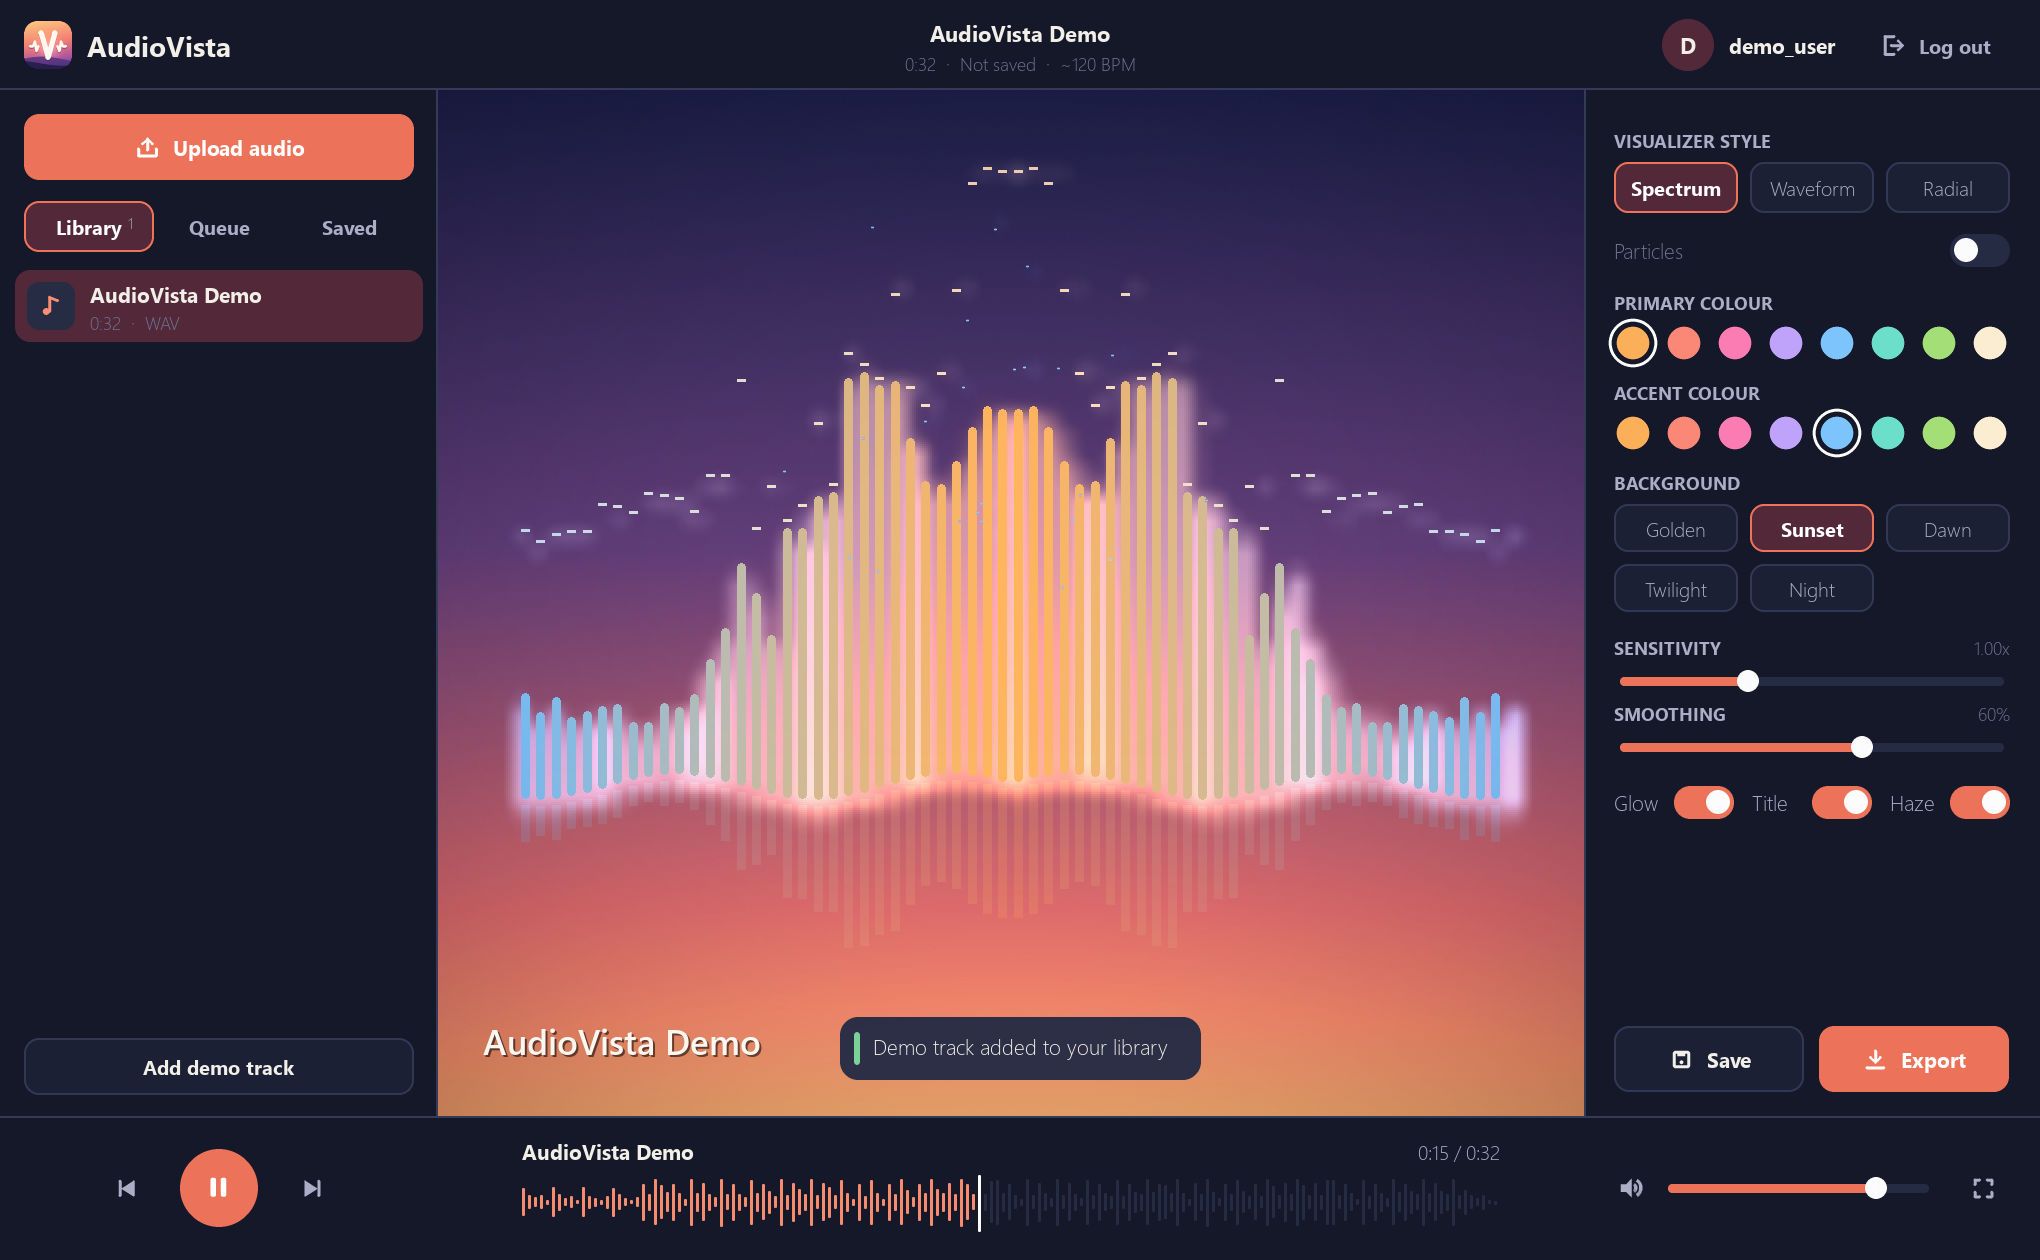
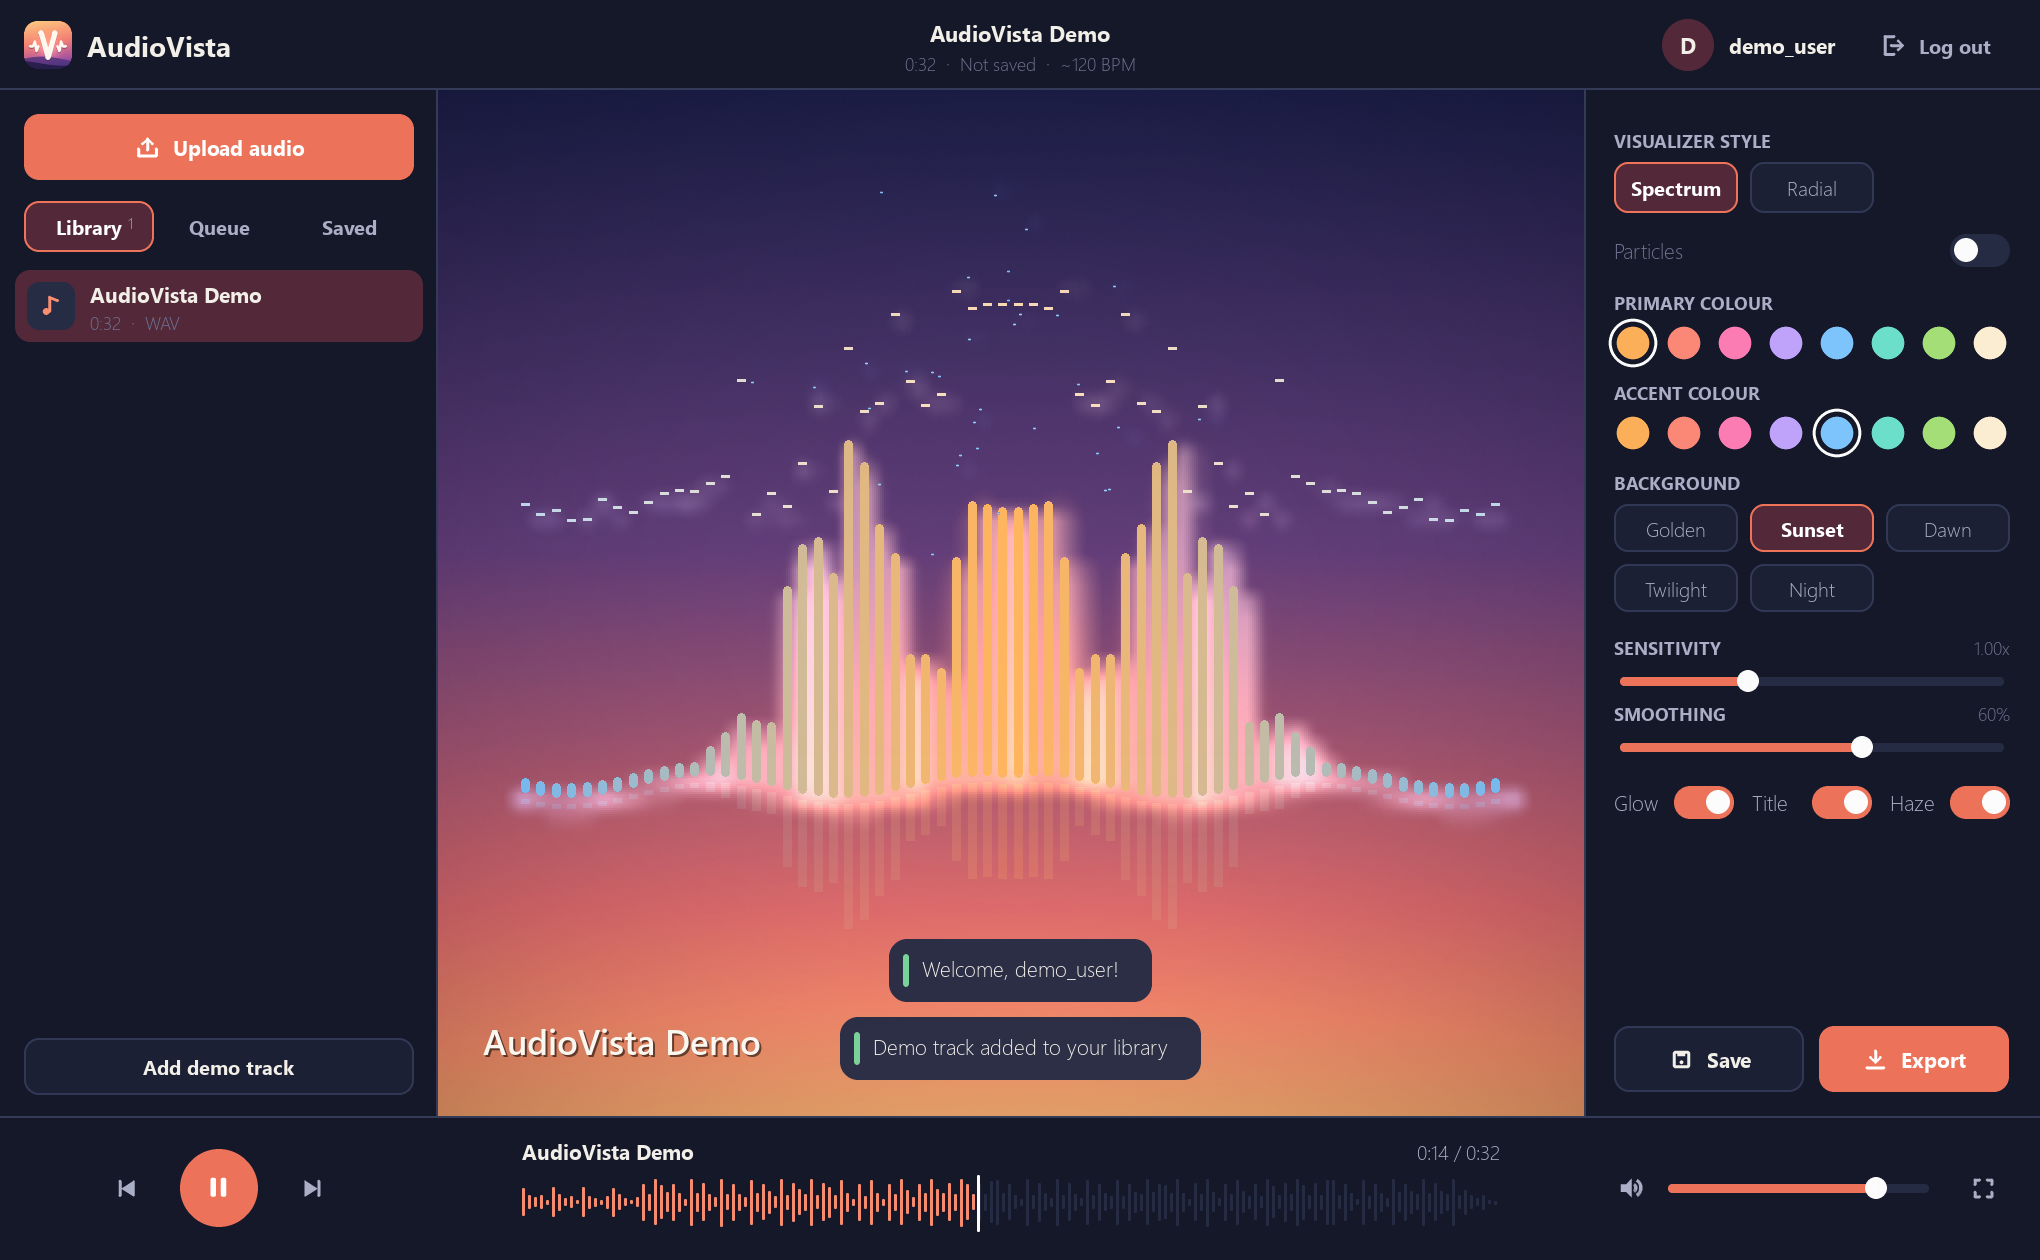
Remove the Waveform style and Radial's centre blob and orbiting dots
Saved visualizations that used Waveform now open as Spectrum.

diff --git a/audiovista/visuals/renderers.py b/audiovista/visuals/renderers.py
@@ -3,12 +3,9 @@
 * bars      - Spectrum: mirrored bars on springs (they overshoot and bounce),
               riding a floor that ripples with the music; peak caps fall with
               gravity and sparks fly off the bars on the beat.
-* waveform  - Waveform: the live sound wave as a smooth glowing ribbon that
-              changes every frame, trailed by fading echoes of the last few
-              frames and a mirrored reflection.
-* circular  - Radial: a breathing ring of spring-loaded spectrum bars around a
-              wobbling spectrum "blob", orbiting dots and shockwaves on the
-              beat; optionally particles stream out of the centre.
+* circular  - Radial: a breathing ring of spring-loaded spectrum bars with
+              shockwaves on the beat; optionally particles stream out of
+              the centre.
 
 ``draw_backdrop`` paints translucent parts straight onto the frame (they blend
 correctly there); ``draw`` paints the bright parts onto a layer that the
@@ -19,7 +16,6 @@ exported videos match the live preview.
 from __future__ import annotations
 
 import math
-from collections import deque
 
 import numpy as np
 import pygame
@@ -264,77 +260,6 @@ class SpectrumRenderer(BaseRenderer):
             aa_circle(layer, lerp_color(c2, WHITE, life), (x, y), max(1.5, u * 0.004 * life))
 
 
-# --------------------------------------------------------------- Waveform
-
-class WaveformRenderer(BaseRenderer):
-    style = "waveform"
-    POINTS = 220
-    ECHOES = 6
-
-    def __init__(self):
-        super().__init__()
-        self.reset()
-
-    def reset(self):
-        super().reset()
-        self.history: deque = deque(maxlen=self.ECHOES)
-        self.gain = 3.0
-        self.t = 0.0
-        self._frame = None
-        self.curve = np.zeros(self.POINTS)
-
-    def _update(self, frame, dt):
-        if frame is self._frame:
-            return
-        self._frame = frame
-        wave = np.asarray(frame.waveform, dtype=np.float64)
-        # smooth out the hiss so the line flows, then shrink to POINTS samples
-        wave = np.convolve(wave, np.hanning(17) / np.hanning(17).sum(), mode="same")
-        curve = resample(wave, self.POINTS)
-        # automatic gain: quiet passages still fill the screen, loud ones don't clip
-        peak = max(0.02, float(np.abs(curve).max()))
-        if dt > 0.0015:
-            self.gain += (min(8.0, 0.9 / peak) - self.gain) * (1 - 0.2 ** dt)
-            self.t += dt
-            self.history.appendleft(self.curve.copy())
-        # taper to the centre line at both ends
-        self.curve = np.clip(curve * self.gain, -1.2, 1.2) * np.sin(np.linspace(0, math.pi, self.POINTS)) ** 0.6
-
-    def _xs(self, w):
-        return np.linspace(w * 0.04, w * 0.96, self.POINTS)
-
-    def draw_backdrop(self, target, frame, s, dt):
-        w, h = target.get_size()
-        self._update(frame, dt)
-        c1, c2 = s.primary_rgb, s.secondary_rgb
-        cy, amp = h * 0.48, h * 0.26 * (1 + 0.12 * frame.beat)
-        xs = self._xs(w)
-        # echoes of the last few frames drift outwards and fade
-        for k, old in enumerate(self.history):
-            f = (k + 1) / (self.ECHOES + 1)
-            ys = cy - old * amp * (1 + 0.25 * f)
-            ribbon(target, (*lerp_color(c1, c2, f), int(140 * (1 - f))), xs, ys, max(2.0, h * 0.006 * (1 - f)))
-        # mirrored reflection
-        ys = cy + self.curve * amp * 0.55
-        gfx.filled_polygon(target, list(zip(xs.tolist(), ys.tolist())) + [(xs[-1], cy), (xs[0], cy)],
-                           (*c2, 40))
-
-    def draw(self, layer, frame, s, dt):
-        w, h = layer.get_size()
-        u = min(w, h)
-        self._update(frame, dt)
-        c1, c2 = s.primary_rgb, s.secondary_rgb
-        cy, amp = h * 0.48, h * 0.26 * (1 + 0.12 * frame.beat)
-        xs = self._xs(w)
-        ys = cy - self.curve * amp
-        width = max(2.5, u * (0.007 + 0.006 * frame.volume))
-        ribbon(layer, lerp_color(c1, c2, 0.5 + 0.5 * math.sin(self.t * 0.7)), xs, ys, width * 2.2)
-        ribbon(layer, lerp_color(c1, WHITE, 0.35 + 0.3 * frame.beat), xs, ys, width)
-        # a bright dot rides the wave from left to right with the beat
-        j = int((self.t * 0.35 % 1.0) * (self.POINTS - 1))
-        aa_circle(layer, WHITE, (xs[j], ys[j]), width * (1.2 + frame.beat))
-
-
 # ------------------------------------------------------------------ Radial
 
 class Emitter:
@@ -397,7 +322,6 @@ class RadialRenderer(BaseRenderer):
         super().reset()
         self.springs = SpringBank(280.0, 10.0)
         self.breath = SpringBank(160.0, 8.0)
-        self.orbit = [0.0, 2.1, 4.2]
         self.t = 0.0
         self.emitter = Emitter()
         self._frame = None
@@ -415,8 +339,6 @@ class RadialRenderer(BaseRenderer):
         self.R = u * 0.15 * (1 + 0.22 * breath)
         if dt > 0.0015:
             self.t += dt * (0.6 + 1.5 * frame.volume)
-            for i, band in enumerate((bass, mid, treble)):
-                self.orbit[i] += dt * (0.6 + 0.5 * i) * (0.4 + 3.0 * band) * (1 if i % 2 == 0 else -1)
         if s.particles:
             self.emitter.update(frame, u, bass, dt)
 
@@ -436,17 +358,6 @@ class RadialRenderer(BaseRenderer):
                     for d in (0, 3):
                         gfx.aacircle(target, int(cx), int(cy), int(self.R * 1.1 + age * u * 0.35 + d),
                                      (*lerp_color(c1, WHITE, 0.4), a))
-        # the wobbling spectrum blob inside the ring
-        pts = self._blob(cx, cy, 0.78, 0.35, 0)
-        gfx.filled_polygon(target, pts, (*lerp_color(c1, c2, 0.5), 70))
-
-    def _blob(self, cx, cy, base, depth, phase):
-        n = self.BARS
-        vals = np.concatenate([self.bars, self.bars[::-1]])
-        a = -math.pi / 2 + np.linspace(0, TAU, 2 * n, endpoint=False) + phase
-        wob = 1 + 0.05 * np.sin(a * 5 + self.t * 2.0)
-        r = self.R * (base + depth * vals) * wob
-        return list(zip((cx + np.cos(a) * r).tolist(), (cy + np.sin(a) * r).tolist()))
 
     def draw(self, layer, frame, s, dt):
         w, h = layer.get_size()
@@ -469,15 +380,10 @@ class RadialRenderer(BaseRenderer):
                     aa_circle(layer, lerp_color(col, WHITE, 0.6),
                               (cx + ca * (r0 + L + width), cy + sa * (r0 + L + width)), width * 0.7)
         gfx.aacircle(layer, int(cx), int(cy), int(R), (*lerp_color(c1, WHITE, 0.3), 255))
-        pygame.draw.aalines(layer, lerp_color(c2, WHITE, 0.3), True, self._blob(cx, cy, 0.78, 0.35, 0))
-        for i, ang in enumerate(self.orbit):
-            rr = R * (0.45 + 0.12 * i)
-            aa_circle(layer, (c1, lerp_color(c1, c2, 0.5), c2)[i],
-                      (cx + math.cos(ang) * rr, cy + math.sin(ang) * rr), u * 0.008)
         aa_circle(layer, lerp_color(c1, WHITE, 0.6), (cx, cy), R * (0.12 + 0.12 * frame.beat))
 
 
-RENDERERS = {cls.style: cls for cls in (SpectrumRenderer, WaveformRenderer, RadialRenderer)}
+RENDERERS = {cls.style: cls for cls in (SpectrumRenderer, RadialRenderer)}
 
 
 def create_renderer(style: str) -> BaseRenderer:

diff --git a/tests/test_models.py b/tests/test_models.py
@@ -26,8 +26,8 @@ class TestVisualSettings:
         assert again == s
 
     def test_from_dict_ignores_unknown_keys_and_fills_defaults(self):
-        s = VisualSettings.from_dict({"wave_type": "waveform", "something_else": 1})
-        assert s.wave_type == "waveform" and s.background == "sunset"
+        s = VisualSettings.from_dict({"wave_type": "circular", "something_else": 1})
+        assert s.wave_type == "circular" and s.background == "sunset"
 
     @pytest.mark.parametrize("bad", [
         {"color": "red"}, {"color": "#12345"}, {"secondary_color": "#GGGGGG"},
@@ -147,10 +147,12 @@ def test_settings_saved_by_earlier_versions_still_load(old_background, sky):
     assert s.atmosphere is False          # the old "retro" switch carries over
 
 
-@pytest.mark.parametrize("old_style, particles", [("meters", False), ("particles", True)])
-def test_removed_styles_open_as_radial(old_style, particles):
+@pytest.mark.parametrize("old_style, style, particles", [("meters", "circular", False),
+                                                          ("particles", "circular", True),
+                                                          ("waveform", "bars", False)])
+def test_removed_styles_still_open(old_style, style, particles):
     s = VisualSettings.from_dict({"wave_type": old_style})
-    assert s.wave_type == "circular" and s.particles is particles
+    assert s.wave_type == style and s.particles is particles
 
 
 def test_radial_particles_option_draws_extra_detail(analyzer):

diff --git a/audiovista/models.py b/audiovista/models.py
@@ -133,11 +133,12 @@ class AudioFile:
 
 # Style keys are stored in saved visualizations, so they stay stable even
 # though the styles have been redesigned (they map to the current designs).
-WAVE_TYPES = ("bars", "waveform", "circular")
-WAVE_TYPE_LABELS = {"bars": "Spectrum", "waveform": "Waveform", "circular": "Radial"}
+WAVE_TYPES = ("bars", "circular")
+WAVE_TYPE_LABELS = {"bars": "Spectrum", "circular": "Radial"}
 # Styles that were removed: saved visualizations that used them open as Radial
 # (the old "particles" style becomes Radial with the particles option on).
-LEGACY_WAVE_TYPES = {"meters": ("circular", False), "particles": ("circular", True)}
+LEGACY_WAVE_TYPES = {"meters": ("circular", False), "particles": ("circular", True),
+                     "waveform": ("bars", False)}
 # Backgrounds are skies at different times of day.
 BACKGROUNDS = ("golden", "sunset", "dawn", "twilight", "night")
 BACKGROUND_LABELS = {"golden": "Golden", "sunset": "Sunset", "dawn": "Dawn",

diff --git a/tools/take_screenshots.py b/tools/take_screenshots.py
@@ -96,8 +96,7 @@ def main():
     app.player.seek(14.0)
     pump(app, 1.0)
     shot(app, "05_studio_bars")
-    for i, (style, bg, c1, c2, extra) in enumerate([("waveform", "twilight", "#ffb35c", "#7fc8ff", {}),
-                                                     ("circular", "night", "#ffb35c", "#ff7eb6", {}),
+    for i, (style, bg, c1, c2, extra) in enumerate([("circular", "night", "#ffb35c", "#ff7eb6", {}),
                                                      ("circular", "sunset", "#ff8a7a", "#ffb35c",
                                                       {"particles": True})]):
         studio.change_setting(wave_type=style, background=bg, color=c1, secondary_color=c2, **extra)

diff --git a/README.md b/README.md
@@ -22,9 +22,9 @@ Team: Daniel Kraemer · Neb Horton · Theodore Kosarek · Alec Kubs
 | --- | --- |
 | Create account / log in (hashed passwords, lockout after 5 failed attempts) | `AccountController`, `Account`, `Database` |
 | Upload audio (MP3, WAV, FLAC, 200 MB limit, drag & drop supported) | `UploadController`, `AudioFile` |
-| Readable soundwave: the Waveform style draws the live sound wave as a flowing ribbon with fading echoes, plus a waveform overview of the whole track on the seek bar | `WaveformRenderer`, `AudioAnalyzer.overview` |
+| Readable soundwave: a waveform overview of the whole track on the seek bar, with the played part highlighted | `SeekBar`, `AudioAnalyzer.overview` |
 | Visuals that react to volume, beat and frequency (FFT) | `AudioAnalyzer`, `visuals/renderers.py` |
-| Three modern, constantly moving styles: Spectrum (spring-loaded bars that bounce, a rippling floor, falling peak caps, sparks on the beat), Waveform (the live wave as a glowing ribbon with fading echoes and a reflection), Radial (a breathing ring of spectrum bars around a wobbling spectrum blob, orbiting dots, shockwaves, and optional particles streaming out of the centre) | `visuals/renderers.py` |
+| Two modern, constantly moving styles: Spectrum (spring-loaded bars that bounce, a rippling floor, falling peak caps, sparks on the beat) and Radial (a breathing ring of spectrum bars, shockwaves on the beat, and optional particles streaming out of the centre) | `visuals/renderers.py` |
 | Settings: primary/accent colour, sky background (Golden, Sunset, Dawn, Twilight, Night), sensitivity, smoothing, glow, title, haze (soft vignette and warm glow) | `VisualSettings`, studio right panel |
 | Play / pause, seek, volume, previous / next | `AudioPlayer`, studio transport bar |
 | Sound queue ("up next") with auto-advance | `PlaybackQueue`, studio *Queue* tab |
@@ -57,7 +57,7 @@ synthesises a short royalty-free loop.
 | --- | --- |
 | Space | Play / pause |
 | ← / → | Seek 5 seconds |
-| 1 – 3 | Switch visualizer style |
+| 1 – 2 | Switch visualizer style |
 | F / Esc | Full view on / off |
 | N | Next track in queue |
 | Ctrl+O / Ctrl+S / Ctrl+E | Upload / Save / Export |
@@ -108,7 +108,7 @@ audiovista/
     player.py        AudioPlayer – pygame.mixer playback with an accurate clock
     demo.py          synthesised demo track
   visuals/
-    renderers.py     Spectrum, Waveform, Radial (+ particles option)
+    renderers.py     Spectrum, Radial (+ particles option)
     backgrounds.py   sky gradients (dithered, no banding) + beat flash
     retro.py         "Haze": soft vignette and warm glow
     engine.py        VisualizerEngine – live preview and export frames, bloom
